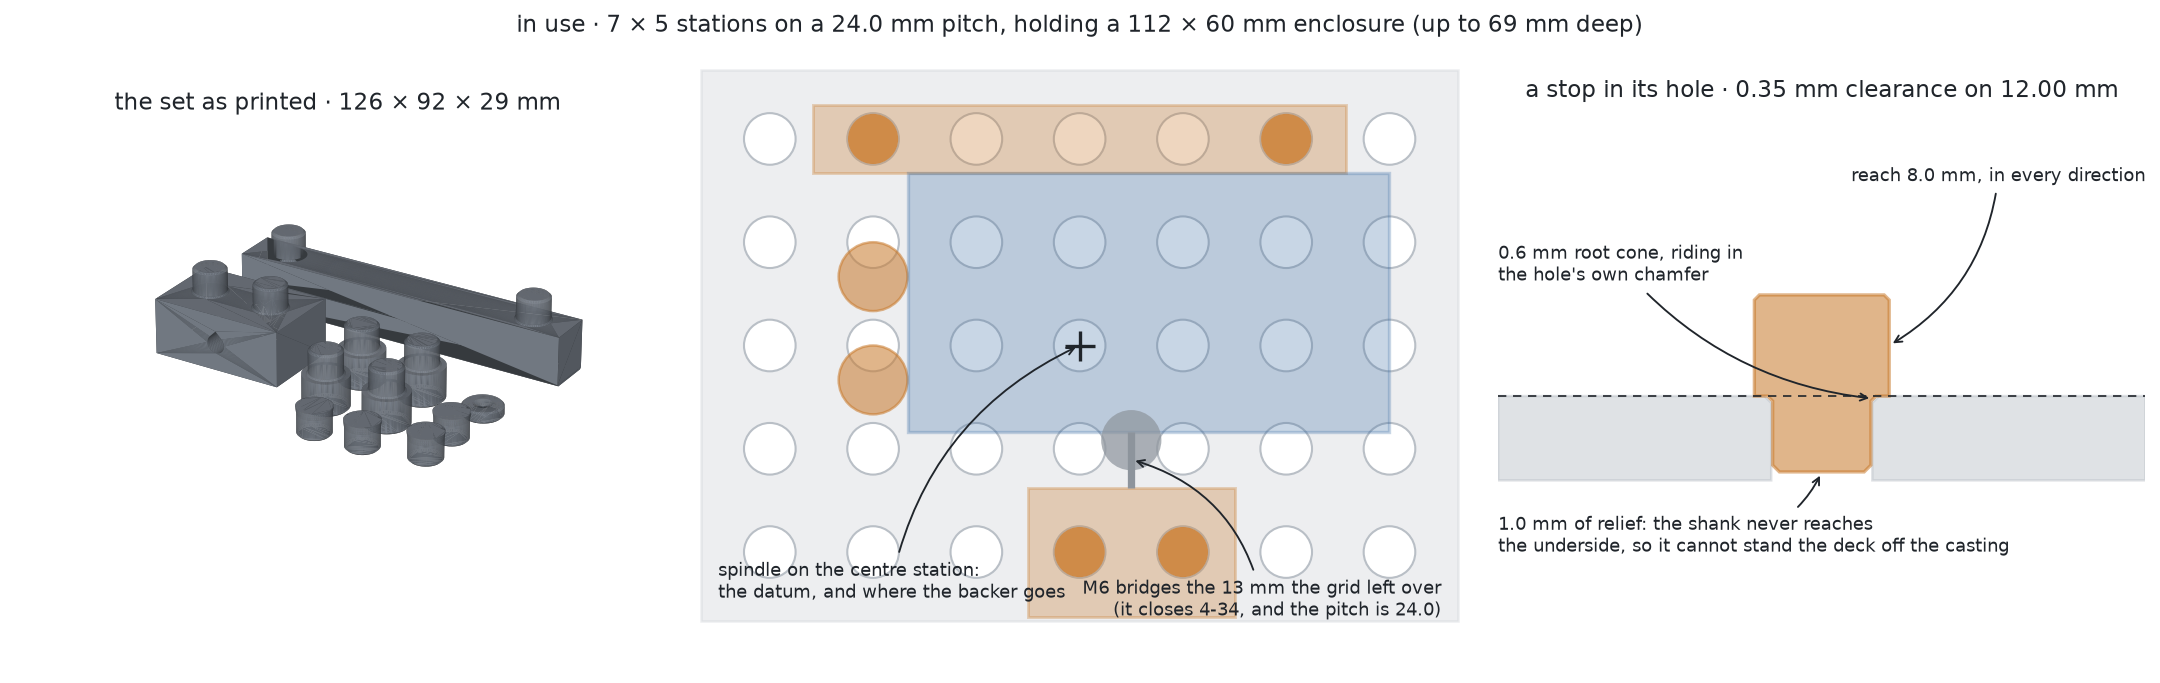
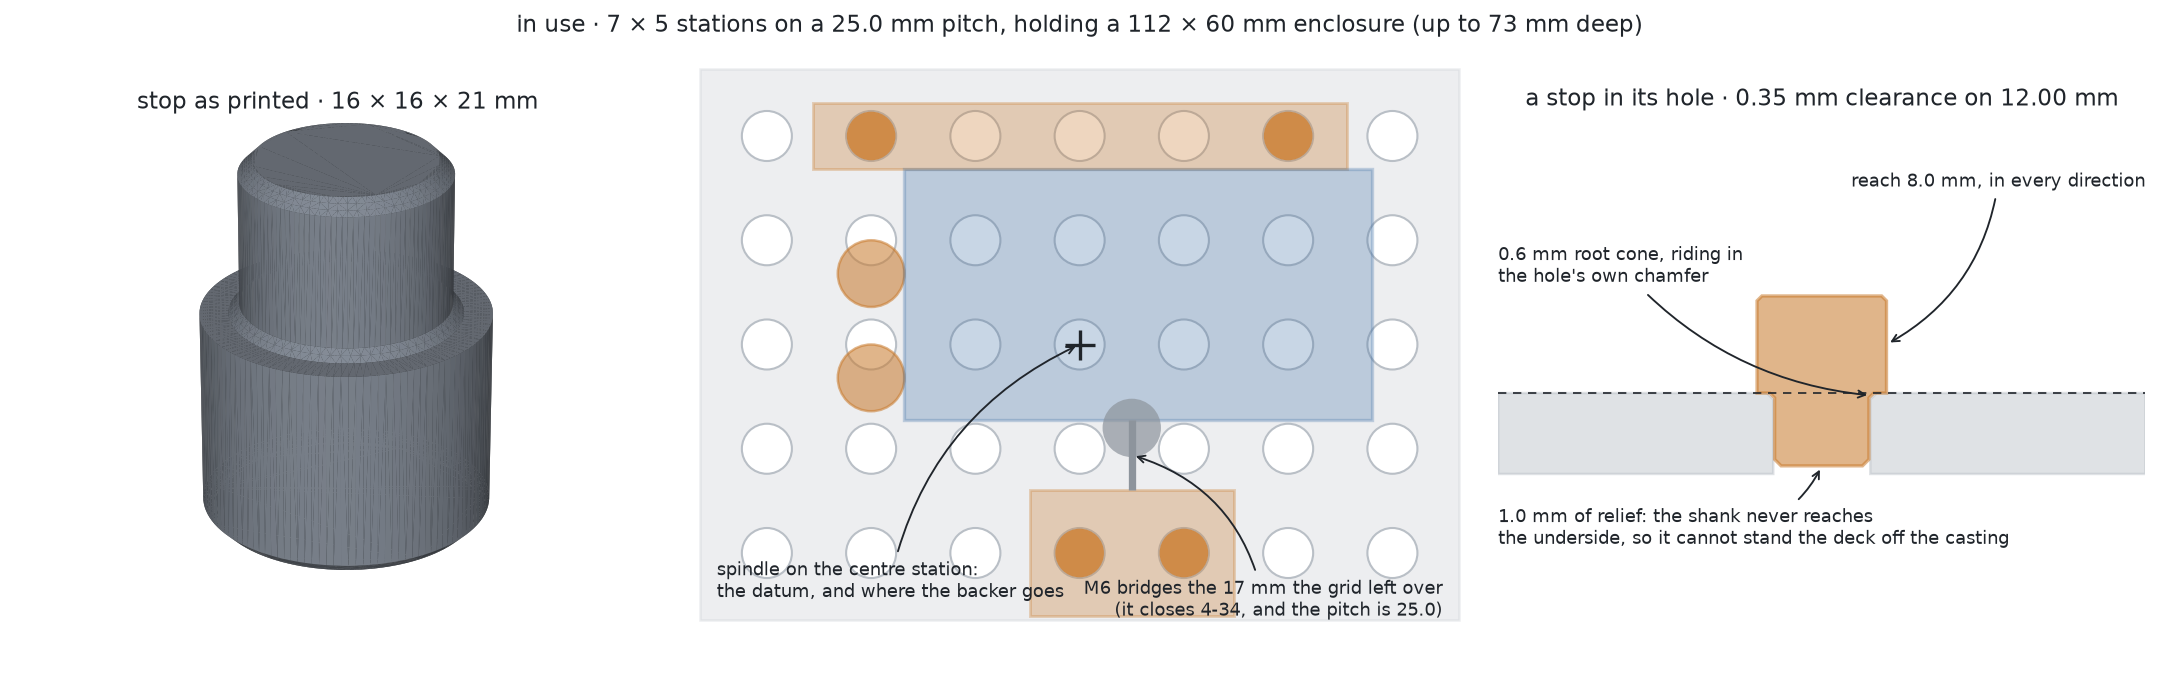
Metric grid: 25mm pitch, the breadboard standard, not a rounder 24
24 was chosen for fit against the casting and nothing else, which made it an
invention. 25 is the pitch of every metric optical breadboard and small fixture
plate -- a Thorlabs MB1515/M is 150 x 150mm of aluminium on exactly this grid,
within two millimetres of this casting's flat field. That makes a bought or
tapped plate the honest endpoint of the design rather than a rival to it, and
the fixtures carry over unchanged: a fence spans a whole number of pitches and a
clamp straddles exactly one, so only the shank would change, dog to M6 stud.

Also records why the hole did not shrink to suit. Ten on twenty-five is the
tempting version and the arithmetic refuses it: 88mm3 of section modulus against
155, which across layers at 20-35 MPa is a root letting go between 176 and 309 N
applied 10mm up, while an M6 turned by hand on a knob delivers 250 to 500. A
10mm dog breaks under a firm hand rather than under abuse. Grid.takes_insert
covers the other direction -- M6 in a dog hole by way of a bushing -- and says
what it needs: for a 10mm deck, only the short inserts.

The cost is at the edge of the plate and it is real. Seven columns span 150
against a 152mm field, so the outer column sits 1mm inside it where at 24 it had
4. The old "3mm clear" assertion is replaced by two that say what actually has
to hold: every station inside the field, and the outer holes bearing more than
half on casting with the rest a stub of overhang no longer than the plate is
[…]

diff --git a/geom/dog_grid.py b/geom/dog_grid.py
@@ -6,18 +6,60 @@ numbers: how big the holes are, how far apart they are, and how thick the deck
 is. Put them in one place and a fence can never be cut for a grid the dogs are
 not, which is the only way this kind of set goes wrong.
 
-WHY TWELVE ON TWENTY-FOUR. Woodworking settled on 3/4 inch dogs at two inch
+WHY TWELVE ON TWENTY-FIVE. Woodworking settled on 3/4 inch dogs at two inch
 centres because it is sized for timber. Electronics work is not: a pedal
 enclosure is 112mm long and a Pi hat is 65, so a two inch grid gives you two
 usable stations under a workpiece and no way to put a stop where you want one.
-12mm holes on a 24mm pitch put four times as many stations under the same part,
+12mm holes on a 25mm pitch put four times as many stations under the same part,
 and a 12mm dog is still far stronger than anything a drill stand this size can
 do to it. The 3/4 inch grid is in the catalogue anyway, because the arithmetic
 is the same and someone will want to bolt this to a real bench.
 
-The pitch is exactly twice the hole, which is not decoration. It makes the web
-between two stations the same width as a station, so the plate is no weaker
-between its holes than at them.
+WHY NOT SMALLER HOLES, WHICH IS THE OBVIOUS ECONOMY. Ten on twenty-five is the
+tempting version and it is the one thing here that is not a preference. A dog
+is a cantilever and its root is a circle, so what it survives goes as the cube
+of the diameter: a 9.65mm shank has a section modulus of 88mm3 against 155 for
+an 11.65mm one. Across printed layers, at 20 to 35 MPa, that is a root that lets
+go somewhere between 176 and 309 newtons applied 10mm up. An M6 in the clamp
+turned by hand on a knob delivers 250 to 500. A 10mm dog therefore breaks under
+a firm hand, not under abuse, and no amount of pitch cleverness recovers that.
+12mm is the smallest hole with the load on the right side of the line -- and
+even there the margin is thinner than it looks, which is what the break arm in
+``parts.dog_rig`` is for.
+
+WHY TWENTY-FIVE, AND WHAT STANDARD IT IS. There are two metric fixturing
+standards and neither covers this size. Festool's MFT is the de facto metric
+dog standard -- 20mm holes on a 96mm grid -- and it is timber scale: a 96mm
+pitch puts a single station under a pedal enclosure, and 20mm dogs would need a
+40mm pitch, which is three columns on this deck. The other is the optical
+breadboard: M6 threaded, 25mm grid, and that one *is* this scale. It is the
+pitch every small metric fixture plate, camera cheese plate and lab jig already
+uses, which is why the deck uses it too.
+
+The article to hold in mind is a Thorlabs MB1515/M or its equivalent: 150 x
+150mm of aluminium, 12.7mm thick, M6 on 25mm centres. That is within two
+millimetres of this casting's 152mm flat field, and it is flat and stiff in a
+way no printed plate will ever be. Which makes it the honest endpoint of this
+design rather than a rival to it -- the printed deck is what you use while the
+numbers are still moving, and a bought or tapped plate is what it becomes.
+
+The pitch is what carries over. A fence spans a whole number of pitches and a
+clamp straddles exactly one, so both are already cut for a breadboard; what
+would change is the shank, from an 11.65mm dog to an M6 stud, which is one
+feature on each part rather than a redesign. Two details worth knowing before
+counting on it. A 150mm board at this pitch holds six holes with 12.5mm edge
+margin, an *even* count -- so its centre falls between four holes and it has no
+station on the spindle axis, which the printed deck insists on for the datum and
+the backer. And its thickness is not this deck's, so dogs cut for one are the
+wrong length for the other. Compatibility lives in the pitch, not the bore.
+
+``Grid.takes_insert`` covers the other direction -- M6 in a dog hole, by way of
+a bushing with a heat-set insert -- and for a 10mm deck the answer is: only the
+short inserts, and only just.
+
+The pitch is no longer exactly twice the hole, which the first metric draft made
+a virtue of. It bought a 13mm web instead of 12 -- material, not a loss -- and
+the symmetry it cost was decoration.
 
 WHY METRIC, HAVING FIRST BEEN IMPERIAL. This began as half inch holes on an
 inch, reasoning that the machine is imperial and a 1/2 inch Forstner is in every
@@ -29,16 +71,17 @@ And no bit is needed to make the printed deck at all: a wooden one is piloted at
 one place, where 12mm is as ordinary as half an inch. Everything else in this
 repository is millimetres.
 
-What actually decided it was neither of those. At 24mm the seven columns span
-144, which puts every station inside the 152mm square of flat casting they bolt
-to; at 25.4 the outermost column landed on its edge to within two tenths of a
-millimetre.
+THE COST, WHICH IS REAL, AND IT IS AT THE EDGE. Seven columns on a 25mm pitch
+span 150, against a casting whose flat field is 152 square. The outermost column
+sits one millimetre inside that edge, where at 24mm it had four. Its holes still
+have more than half their footprint over casting and the rest is a 5mm overhang
+of a 10mm plate, which is stiff enough not to matter for anything this machine
+can push; but it is the column to leave empty when a setup lets you, and it is a
+locating column rather than one to hang a clamp's whole preload off.
 
-THE COST, WHICH IS REAL. A 12mm hole takes an 11.65mm shank where a half inch
-one took 12.35, and that is a sixth off the section modulus at the root -- the
-one place in this design where the margin was already thin. It is 3.2 to 5.5kg
-on the break arm rather than 3.8 to 6.6, against 2.1 N.m the clamp can apply.
-Which makes the test in ``parts.dog_rig`` matter more than it did, not less.
+The other cost is unchanged and older: a 12mm hole takes an 11.65mm shank where
+a half inch one took 12.35, and that is a sixth off the section modulus at the
+root. It is 3.2 to 5.5kg on the break arm rather than 3.8 to 6.6.
 
 THE CENTRE STATION IS NOT OPTIONAL. One hole has to sit exactly on the spindle
 axis. It is where the sacrificial backer goes, it is what you line the deck up
@@ -74,14 +117,30 @@ class Grid:
 
         The thing that fails first if the pitch is ever brought down towards the
         hole size, and the reason a half-pitch interleaved grid is not on offer:
-        at 12.7mm holes it would leave a 5mm web, which is two walls and some
-        infill.
+        at 12mm holes on a 25mm pitch it would leave a 0.5mm web, which is not
+        a wall.
         """
         return self.pitch - self.hole
 
     def shank(self, fit: float) -> float:
         """Dog shank diameter for a given diametral clearance."""
         return self.hole - fit
+
+    def takes_insert(self, od: float, length: float, wall: float = 1.5) -> bool:
+        """Whether a station could carry a threaded insert of this size.
+
+        The question the 25mm pitch raises: a breadboard station is an M6
+        thread, so could a dog hole simply become one, by way of a printed
+        bushing with an insert melted into it? Two things have to hold. The
+        insert plus a wall each side has to fit the bore, or there is nothing
+        holding it. And it has to be shorter than the deck, or it stands proud
+        and the work rocks on it -- which for M6 in a 10mm deck rules out the
+        common 12.7mm inserts and leaves only the short ones.
+
+        ``wall`` is the printed material around the insert after melting, not
+        before; a heat-set insert displaces its own knurl outwards.
+        """
+        return od + 2 * wall <= self.hole and length <= self.deck
 
     def span(self, holes: int) -> float:
         """Centre-to-centre distance across a run of holes."""
@@ -100,6 +159,16 @@ class Grid:
             for c in range(cols)
         )
 
+
+M6_INSERT = (8.0, 9.5)
+"""Outside diameter and length of a short M6 heat-set insert, in mm.
+
+The size that decides whether the M6 compatibility the 25mm pitch buys can be
+had in a dog hole rather than only in a future deck. Confirm against whatever
+inserts you actually own before printing a bushing for them: the same thread is
+sold from about 8.0 to 8.7mm across and from 9.5 to 12.7mm long, and the long
+ones do not fit a 10mm deck.
+"""
 
 FITS = {"loose": 0.50, "slip": 0.35, "snug": 0.25, "tight": 0.15}
 """Diametral clearance between a dog shank and its hole, in mm.
@@ -122,7 +191,7 @@ def fit(name: str) -> float:
         raise KeyError(f"no {name!r} fit; have {', '.join(FITS)}") from None
 
 
-METRIC = Grid("metric", hole=12.0, pitch=24.0, deck=10.0)
+METRIC = Grid("metric", hole=12.0, pitch=25.0, deck=10.0)
 HALF_INCH = Grid("half-inch", hole=MM_PER_INCH / 2, pitch=MM_PER_INCH, deck=10.0)
 THREE_QUARTER = Grid(
     "three-quarter", hole=MM_PER_INCH * 0.75, pitch=MM_PER_INCH * 2, deck=18.0

diff --git a/tests/test_drill_stand.py b/tests/test_drill_stand.py
@@ -93,18 +93,34 @@ def test_even_a_square_deck_would_clear_the_column(deck):
 def test_every_station_is_over_casting_and_not_over_air(deck):
     """A stop bears on the deck and the deck bears on the casting, so a station
     hanging past the flat field is a station cantilevered on ten millimetres of
-    plastic.
+    plastic. None of them is, but the outermost column is close, and that is
+    what the 25mm pitch cost.
 
-    This is what the metric pitch bought. At 25.4 the outermost column landed on
-    the field's edge to within two tenths of a millimetre -- inside it, but only
-    just, and edge-loaded. At 24 the seven columns span 144 against a 152 field
-    and every station has millimetres of casting under it."""
+    Three pitches have been through here. At 25.4 the outer column landed on the
+    field's edge to within two tenths of a millimetre. At 24 it had four
+    millimetres. At 25 -- the optical-breadboard pitch, taken so that a future
+    M6 deck and this set's fixtures are the same grid -- it has one. Inside, but
+    the assertion below is the whole of the margin, so any change that moves a
+    station outwards has to be a deliberate one."""
     reach = STAND.field / 2
     for x, y in deck.stations:
         assert abs(x) < reach, x
         assert abs(y) < reach, y
-    clear = reach - max(abs(x) for x, _ in deck.stations)
-    assert clear > 3, f"outermost column only {clear:.1f}mm inside the field"
+
+
+def test_the_outermost_holes_still_bear_mostly_on_casting(deck):
+    """The centre being inside the field is not enough on its own: a hole has a
+    width, and at this pitch the outer column's holes straddle the casting's
+    edge. What has to hold is that most of the bearing footprint is still over
+    iron and the rest is a stub of overhang no longer than the plate is thick --
+    5mm out on 10mm of deck, an aspect ratio at which nothing a hand-fed drill
+    stand applies will measurably deflect it."""
+    reach = STAND.field / 2
+    outer = max(abs(x) for x, _ in deck.stations)
+    supported = reach - (outer - deck.grid.hole / 2)
+    assert supported > deck.grid.hole / 2, "outer holes are more air than casting"
+    overhang = (outer + deck.grid.hole / 2) - reach
+    assert overhang < deck.deck
 
 
 def test_the_deck_covers_the_field_it_bolts_to(deck):

diff --git a/tests/test_bench_dogs.py b/tests/test_bench_dogs.py
@@ -118,6 +118,34 @@ def test_the_grid_is_centred_on_the_origin():
     assert min(xs) == pytest.approx(-max(xs))
 
 
+def test_the_default_grid_is_the_metric_breadboard_pitch():
+    """25mm is not a rounder 24. It is the pitch of every metric optical
+    breadboard and small fixture plate -- a Thorlabs MB1515/M and its
+    equivalents -- which is the whole reason for choosing it over anything else
+    in the same neighbourhood, and the reason a fixture cut for this set is
+    already cut for one of those plates."""
+    assert dog_grid.DEFAULT.pitch == 25.0
+    board = 150.0
+    assert dog_grid.DEFAULT.span(7) == pytest.approx(board)
+
+
+def test_a_short_m6_insert_fits_a_station_and_a_long_one_does_not():
+    """What the M6 option costs if it is ever taken in a dog hole rather than in
+    a plate: the insert has to be short enough to finish below the deck's face,
+    because an insert standing proud is something the work rocks on."""
+    grid = dog_grid.DEFAULT
+    assert grid.takes_insert(*dog_grid.M6_INSERT)
+    od, _ = dog_grid.M6_INSERT
+    assert not grid.takes_insert(od, 12.7), "a long M6 insert stands proud"
+
+
+def test_a_ten_millimetre_grid_would_not_carry_an_m6_insert_at_all():
+    """A second argument against the smaller hole that has nothing to do with
+    the shank: 8mm of insert plus a wall each side does not go in it."""
+    small = dog_grid.Grid("ten", hole=10.0, pitch=25.0, deck=10.0)
+    assert not small.takes_insert(*dog_grid.M6_INSERT)
+
+
 def test_an_unknown_grid_or_fit_says_what_there_is():
     with pytest.raises(KeyError, match="metric"):
         dog_grid.named("cubits")

diff --git a/parts/dog_deck.py b/parts/dog_deck.py
@@ -89,9 +89,10 @@ class Params:
     cols: int = 7
     rows: int = 5
     """Stations across and along. Both odd, so one lands on the spindle axis --
-    see the module note. 7 x 5 on a one inch pitch spans 152 x 102mm, which
-    covers the casting's field and leaves a row of stations hanging off each end
-    for work that is longer than the machine."""
+    see the module note. 7 x 5 on a 25mm pitch spans 150 x 100mm, which covers
+    the casting's 152mm field to within a millimetre at the outermost column and
+    leaves a row of stations hanging off each end for work that is longer than
+    the machine."""
 
     margin: float = 16.0
     """Plate beyond the outermost hole centres.
@@ -101,7 +102,7 @@ class Params:
     first thing a stop breaks out of. And it has to be at least half the clamp's
     depth, or a clamp in the outermost row hangs its back end off the plate --
     which is where a clamp holding the deepest workpiece the deck can take
-    necessarily goes. 16mm clears both: the web is 12.7 and the clamp is 30 deep.
+    necessarily goes. 16mm clears both: the web is 13 and the clamp is 30 deep.
     """
     thickness: float = 0.0
     """Plate thickness. Zero means take the grid's own deck figure, which is

diff --git a/README.md b/README.md
@@ -22,7 +22,7 @@ funnel never once widens on the way down.
 Workholding for a Craftsman 335.25921 — which is not a drill press but a *stand*
 that a portable drill clamps into, with a cast base whose only fixturing is four
 T-bolt slots in an X. As a coordinate system that is close to useless, so the
-first part is a deck that replaces it: a plate of 12mm holes on a 24mm pitch
+first part is a deck that replaces it: a plate of 12mm holes on a 25mm pitch
 that bolts down through those slots once and is never taken off. Then
 stops, a fence, a screw clamp, a floating pad and sacrificial backers, all
 plugging into the same grid.
@@ -55,7 +55,7 @@ holding one workpiece push against each other and both reactions land in the
 same plate, so the loop closes inside the deck. The four 5/16-18s into the
 casting hold the deck flat and locate it, and that is all they ever do.
 
-#### Why 12 on 24
+#### Why 12 on 25
 
 The grid began as half-inch holes on an inch, reasoning that the machine is
 imperial and a ½" Forstner is in every hardware shop in the country. Both halves
@@ -65,16 +65,32 @@ doesn't touch that. And no bit is needed to make the printed deck at all; a
 wooden one is piloted at 3mm through a printed template and opened out, so bit
 size appears in exactly one place, where 12mm is as ordinary as ½".
 
-What actually decided it was neither. At 24mm the seven columns span 144, which
-puts every station inside the 152mm square of flat casting they bolt to; at 25.4
-the outermost column landed on its edge to within two tenths of a millimetre.
-The pitch being exactly twice the hole is a bonus: the web between two stations
-is then as wide as a station, so the plate is no weaker between its holes than
-at them.
+**25 because that is the standard, and there is only one at this size.** Festool's
+MFT is the de facto metric dog grid — 20mm holes on 96mm — and it is timber
+scale: a 96mm pitch puts one station under a pedal enclosure. The other metric
+fixturing standard is the optical breadboard, M6 on 25mm centres, and that one
+*is* this scale; a Thorlabs MB1515/M is 150 × 150mm of aluminium on exactly this
+grid, which is within 2mm of this casting's flat field. So the printed deck is
+what you use while the numbers are still moving, and a tapped or bought plate is
+what it becomes — and the fixtures carry over, because a fence spans a whole
+number of pitches and a clamp straddles exactly one. What would change is the
+shank, dog to M6 stud: one feature per part, not a redesign.
 
-The cost is real. A 12mm hole takes an 11.65mm shank where a half-inch one took
-12.35 — a sixth off the section modulus at the root, which is the one place the
-margin was already thin.
+**12 because 10 breaks in the hand.** A dog is a cantilever on a circular root,
+so what it survives goes as the cube of the diameter. A 9.65mm shank has a
+section modulus of 88mm³ against 155 for an 11.65mm one, and across printed
+layers at 20–35 MPa that is a root letting go somewhere between 176 and 309 N
+applied 10mm up — while an M6 turned by hand on a knob delivers 250–500. Ten
+would break under a firm hand rather than under abuse. Twelve is the smallest
+hole with the load on the right side of the line, and the margin there is
+thinner than it sounds, which is what the break arm is for.
+
+The cost is real and it is at the edge of the plate. Seven columns on 25mm span
+150 against a 152mm field, so the outermost column sits 1mm inside it, where at
+24mm it had 4. Its holes still bear more than half on casting and the rest is
+5mm of overhang on a 10mm plate, but it is the column to leave empty when a
+setup lets you. The older cost stands too: a 12mm hole takes an 11.65mm shank
+where a half-inch one took 12.35 — a sixth off the section modulus at the root.
 
 The stops are round, which sounds like laziness and is the point: a round dog
 touches an edge exactly `head/2` from its hole's centre whichever way it was
@@ -86,7 +102,7 @@ rather than two things at slightly different depths.
 
 The clamp is a screw and not a cam or a wedge because the gap between a
 workpiece and the nearest hole is anything up to a full pitch. An eccentric with
-25mm of throw would not be self-locking and a folding wedge pair would be 28mm
+that much throw would not be self-locking and a folding wedge pair would be 28mm
 thick at the fat end; an M6 × 60 costs pennies and puts the plastic back into
 compression. The window of gaps it can close — 4 to 34mm, the pad shifting both
 ends out rather than shortening it — has to be wider than the pitch, and that is
@@ -124,7 +140,7 @@ clearance hole underneath.
 Wood is the better material for the deck in every respect but one. It is
 stiffer, it does not creep under a clamp left tight for a week, it does not mind
 being drilled into, it costs nothing, and it cannot warp on a build plate —
-which is the real risk in a printed plate 176mm long, and the one thing about
+which is the real risk in a printed plate 182mm long, and the one thing about
 this design that a print either survives or does not. MDF over ply, for hole
 quality and because it moves less with the weather.
 
@@ -156,7 +172,7 @@ an M6 wound up with a tool reaches ten times it.
 Watch where the arm breaks: at the root means the fillet is the limit, up the
 shank means it moved the weak point somewhere the design does not care about.
 
-Print it in **PLA**, which reverses what this said first. The deck is 176mm of
+Print it in **PLA**, which reverses what this said first. The deck is 182mm of
 flat plate — exactly what ASA warps and PLA does not — and it is the longest
 print in the set, so the material that removes that risk beats the one that
 turns it into something to measure. The failure mode that is actually marginal
